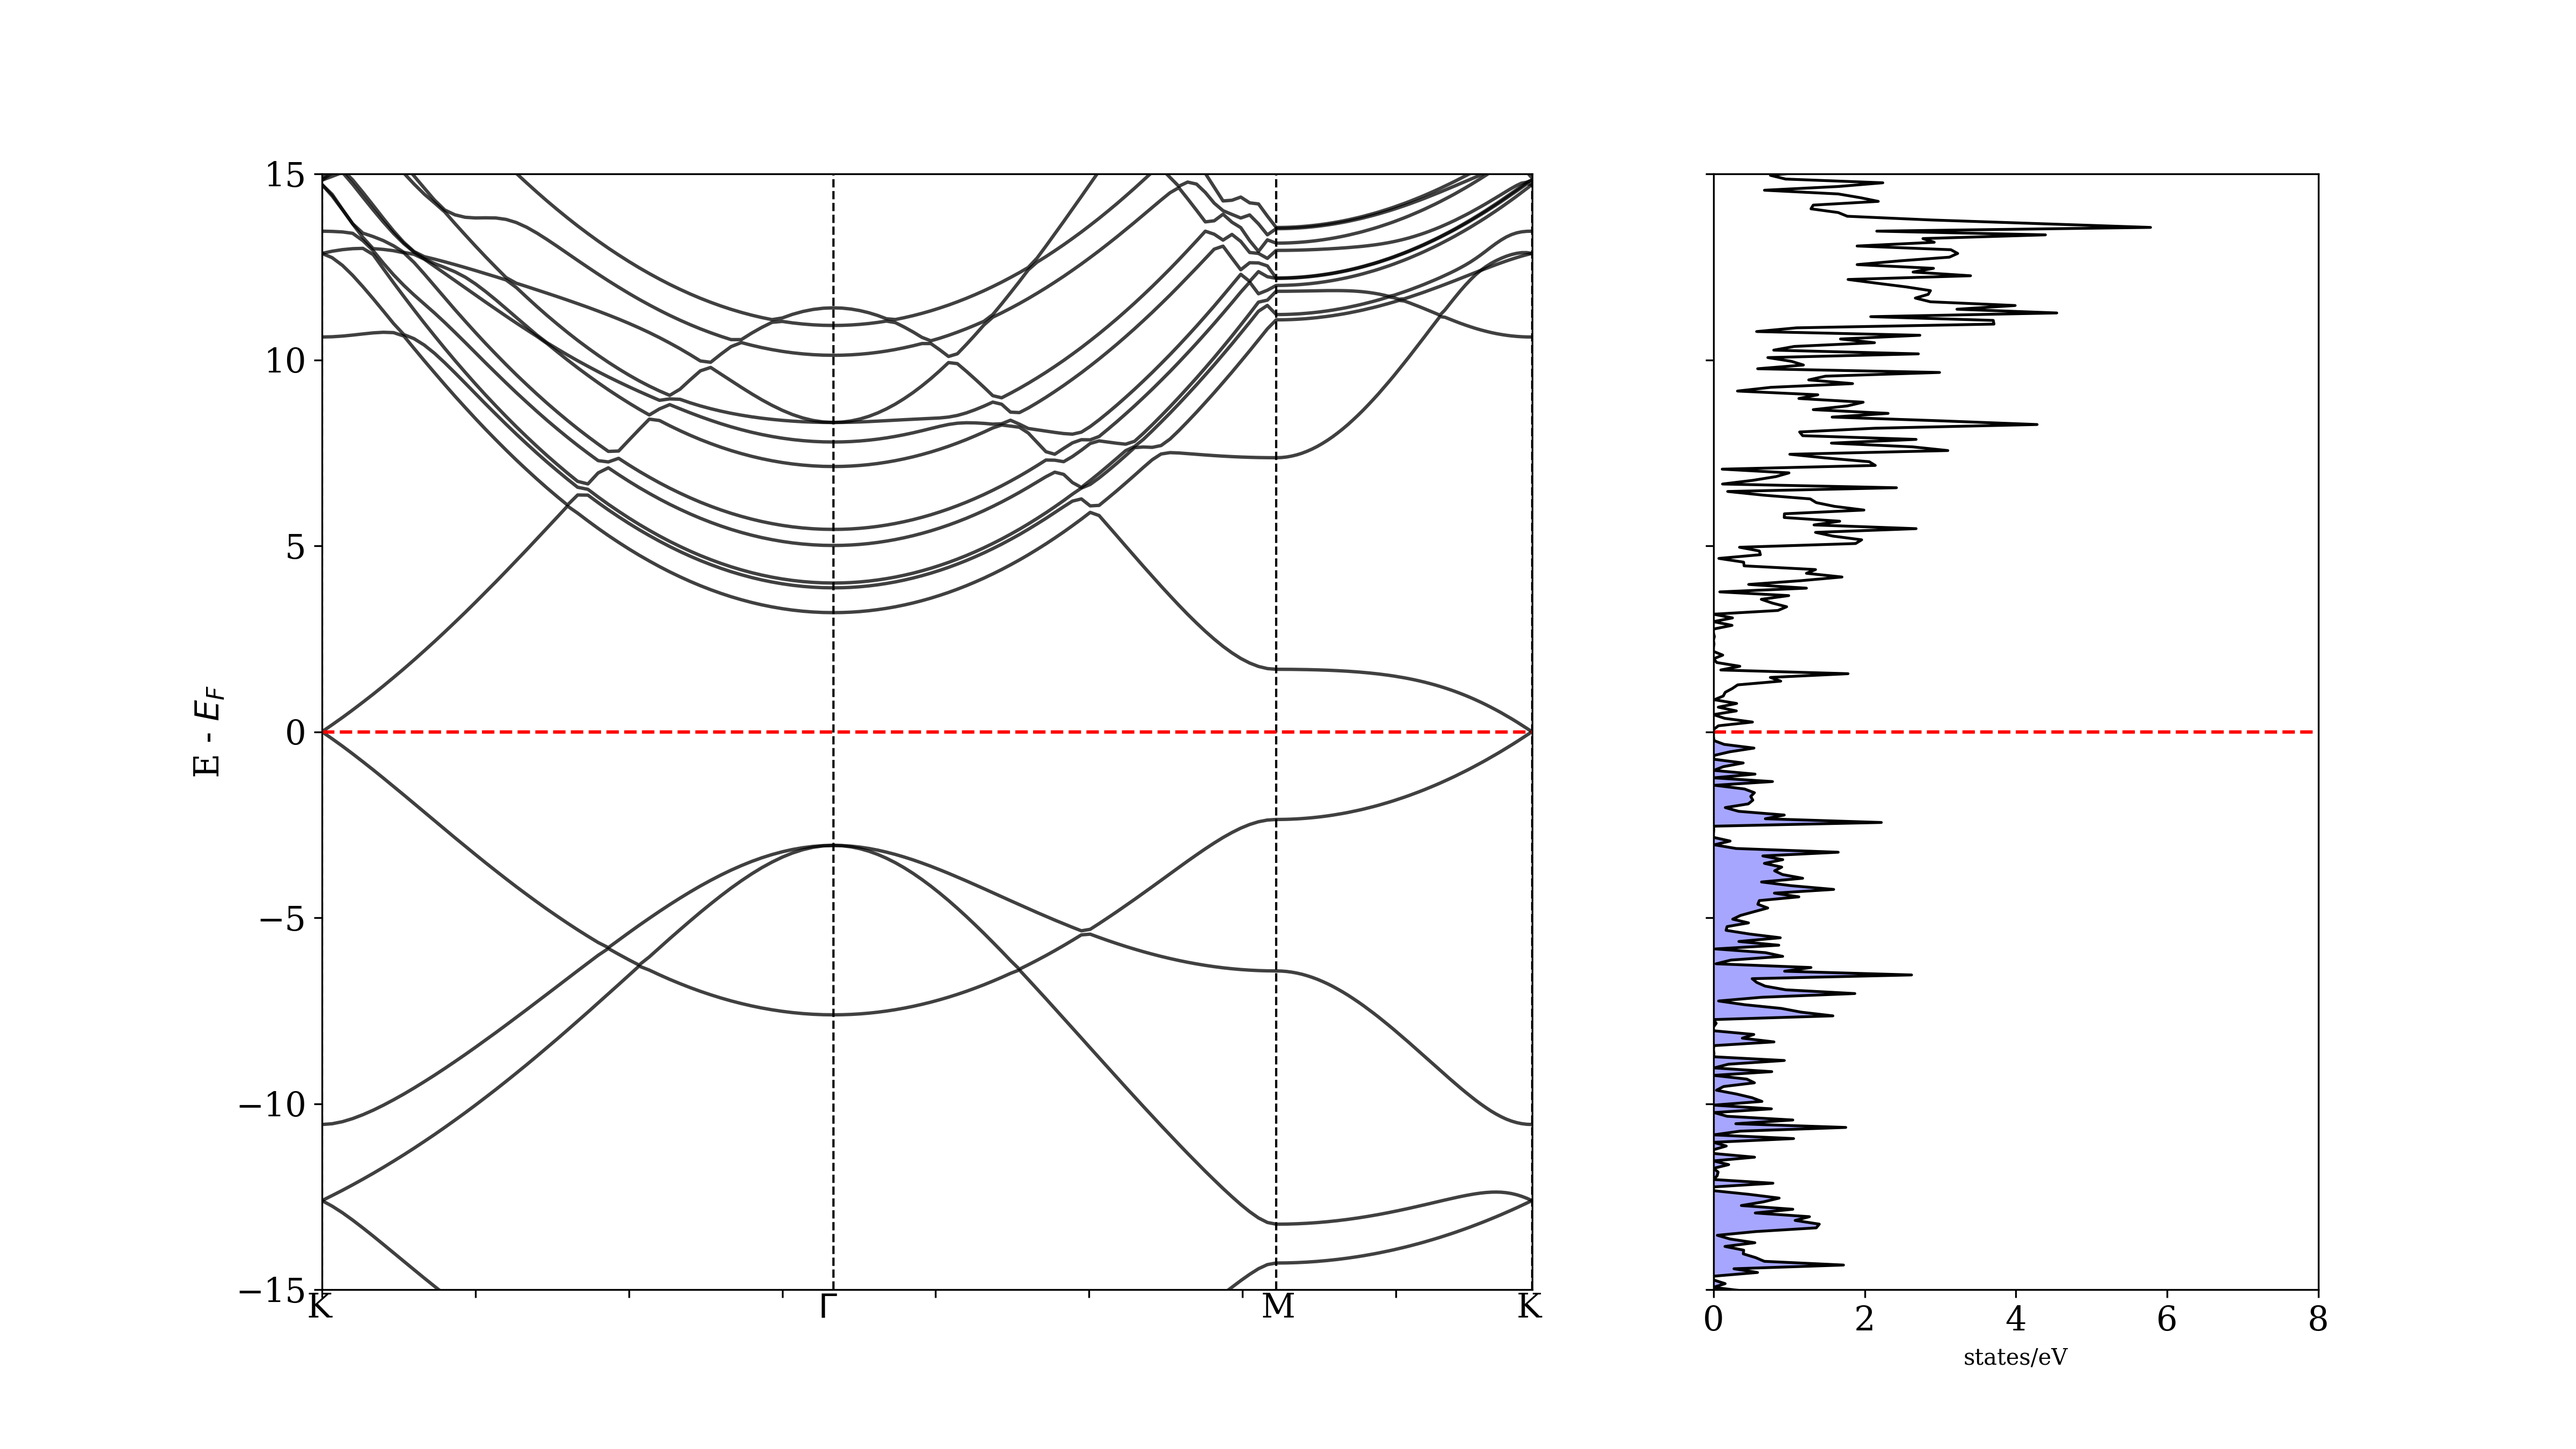
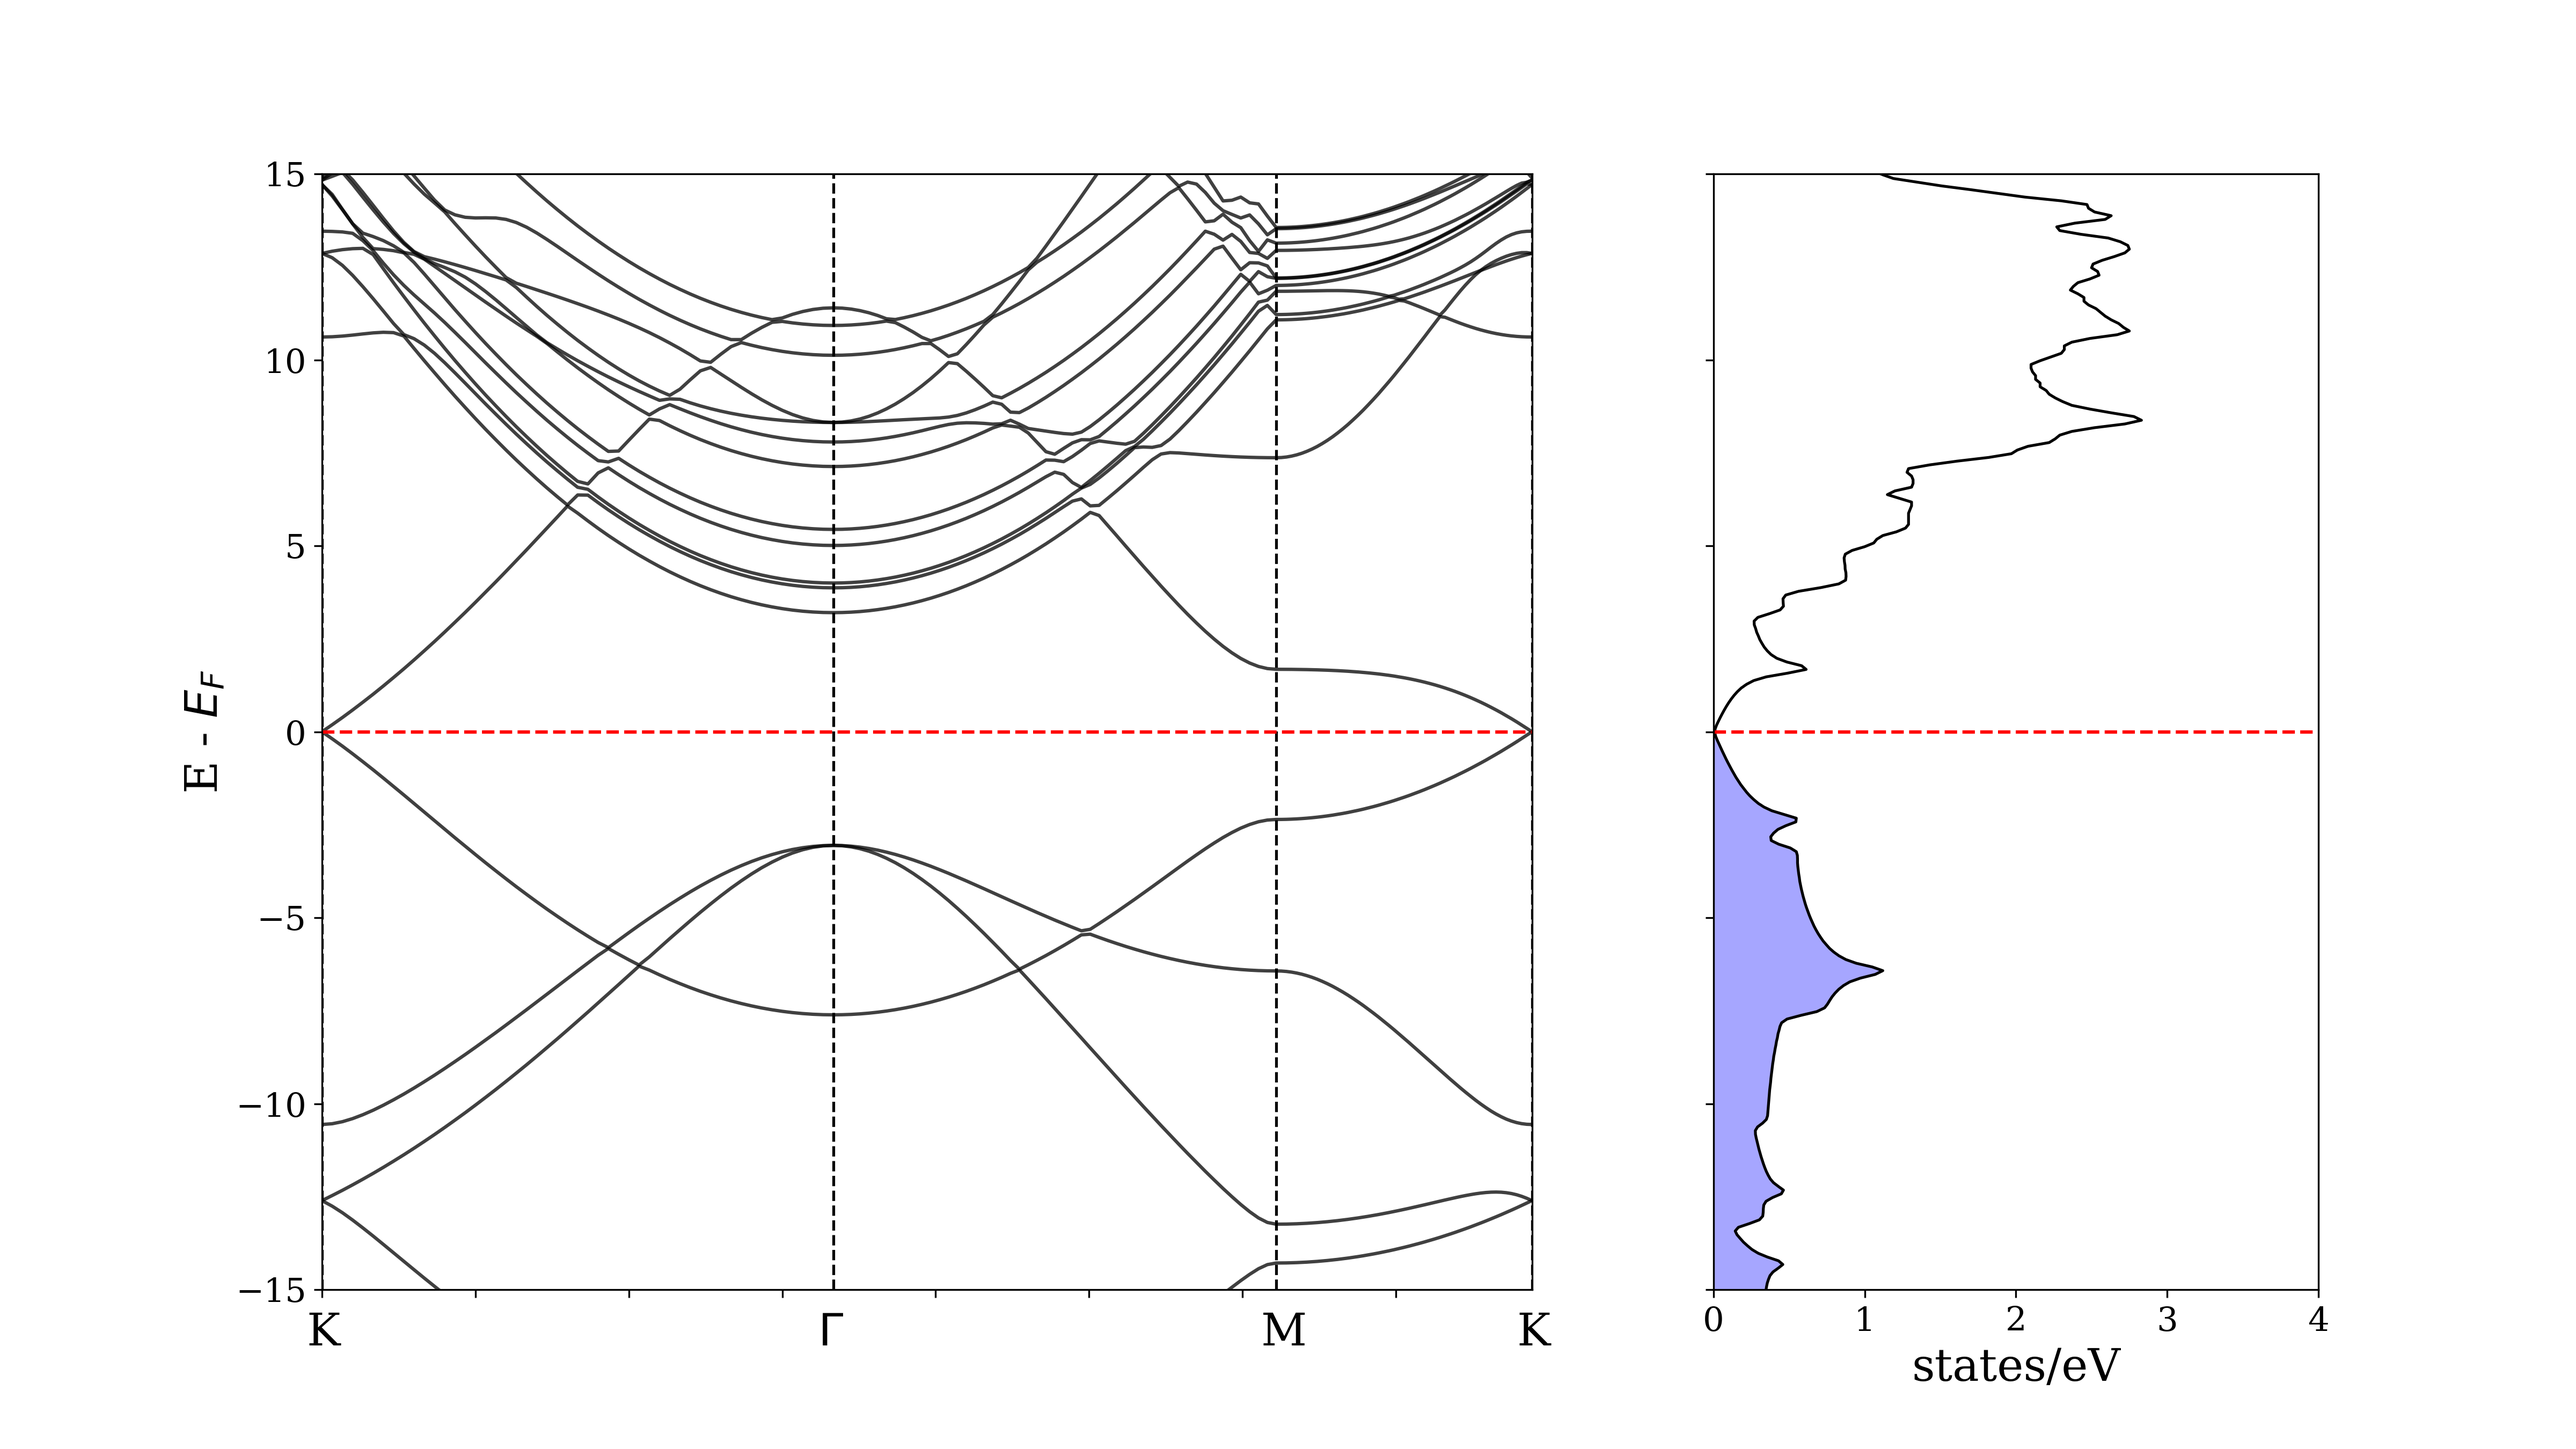
Fixed ploted DOS

diff --git a/post-processing/plot_bands.py b/post-processing/plot_bands.py
@@ -41,14 +41,14 @@ def bndplot(bandsfile,fermi,subplot,ylims, symmetry_points, symmetry_labels):
   # Plot the high simmetry points:
   if (len(symmetry_points) > 0):
     for i, j in zip(symmetry_points, symmetry_labels):
-      subplot.axvline(i, ymin=0, ymax=1.0, color='k', ls='--', lw=1.0)
-      subplot.text(i-0.02, ylims[0]-0.75, j, fontsize=15)
+      subplot.axvline(i, ymin=0, ymax=1.0, color='k', ls='--', lw=1.25)
+      subplot.text(i-0.02, ylims[0]-1.5, j, fontsize=20)
 
   #plot Fermi energy:
   fermi_plot = 0 # since the y axis was already rescaled, Fermi level is at 0 eV
   subplot.plot([min(x),max(x)],[fermi_plot,fermi_plot], '--',color='red', linewidth=1.5)
   subplot.set_xticklabels([])
-  subplot.set_ylabel(r'E - $E_{F}$', fontsize=15)
+  subplot.set_ylabel(r'E - $E_{F}$', fontsize=20)
   subplot.set_ylim([axis[2],axis[3]])
   subplot.set_xlim([axis[0],axis[1]])
   subplot.set_ylim([ylims[0],ylims[1]])
@@ -98,7 +98,7 @@ axs[1].plot(pdos["dos(E)"].to_numpy(),
 
 axs[1].axhline(0, 0, 1, color='r', ls='--', lw=1.5)
 axs[1].set_xlim([0,4])
-axs[1].set_xlabel("states/eV")
+axs[1].set_xlabel("states/eV", fontsize=20)
 
 axs[1].fill_betweenx(pdos["E (eV)"].to_numpy()-Fermi,
                 0,
@@ -107,5 +107,5 @@ axs[1].fill_betweenx(pdos["E (eV)"].to_numpy()-Fermi,
                 facecolor='b',
                 alpha=0.35)
 
-# plt.savefig("graphene-bands-dos.png", dpi=300)
+plt.savefig("graphene-bands-dos.png", dpi=300)
 plt.show()
